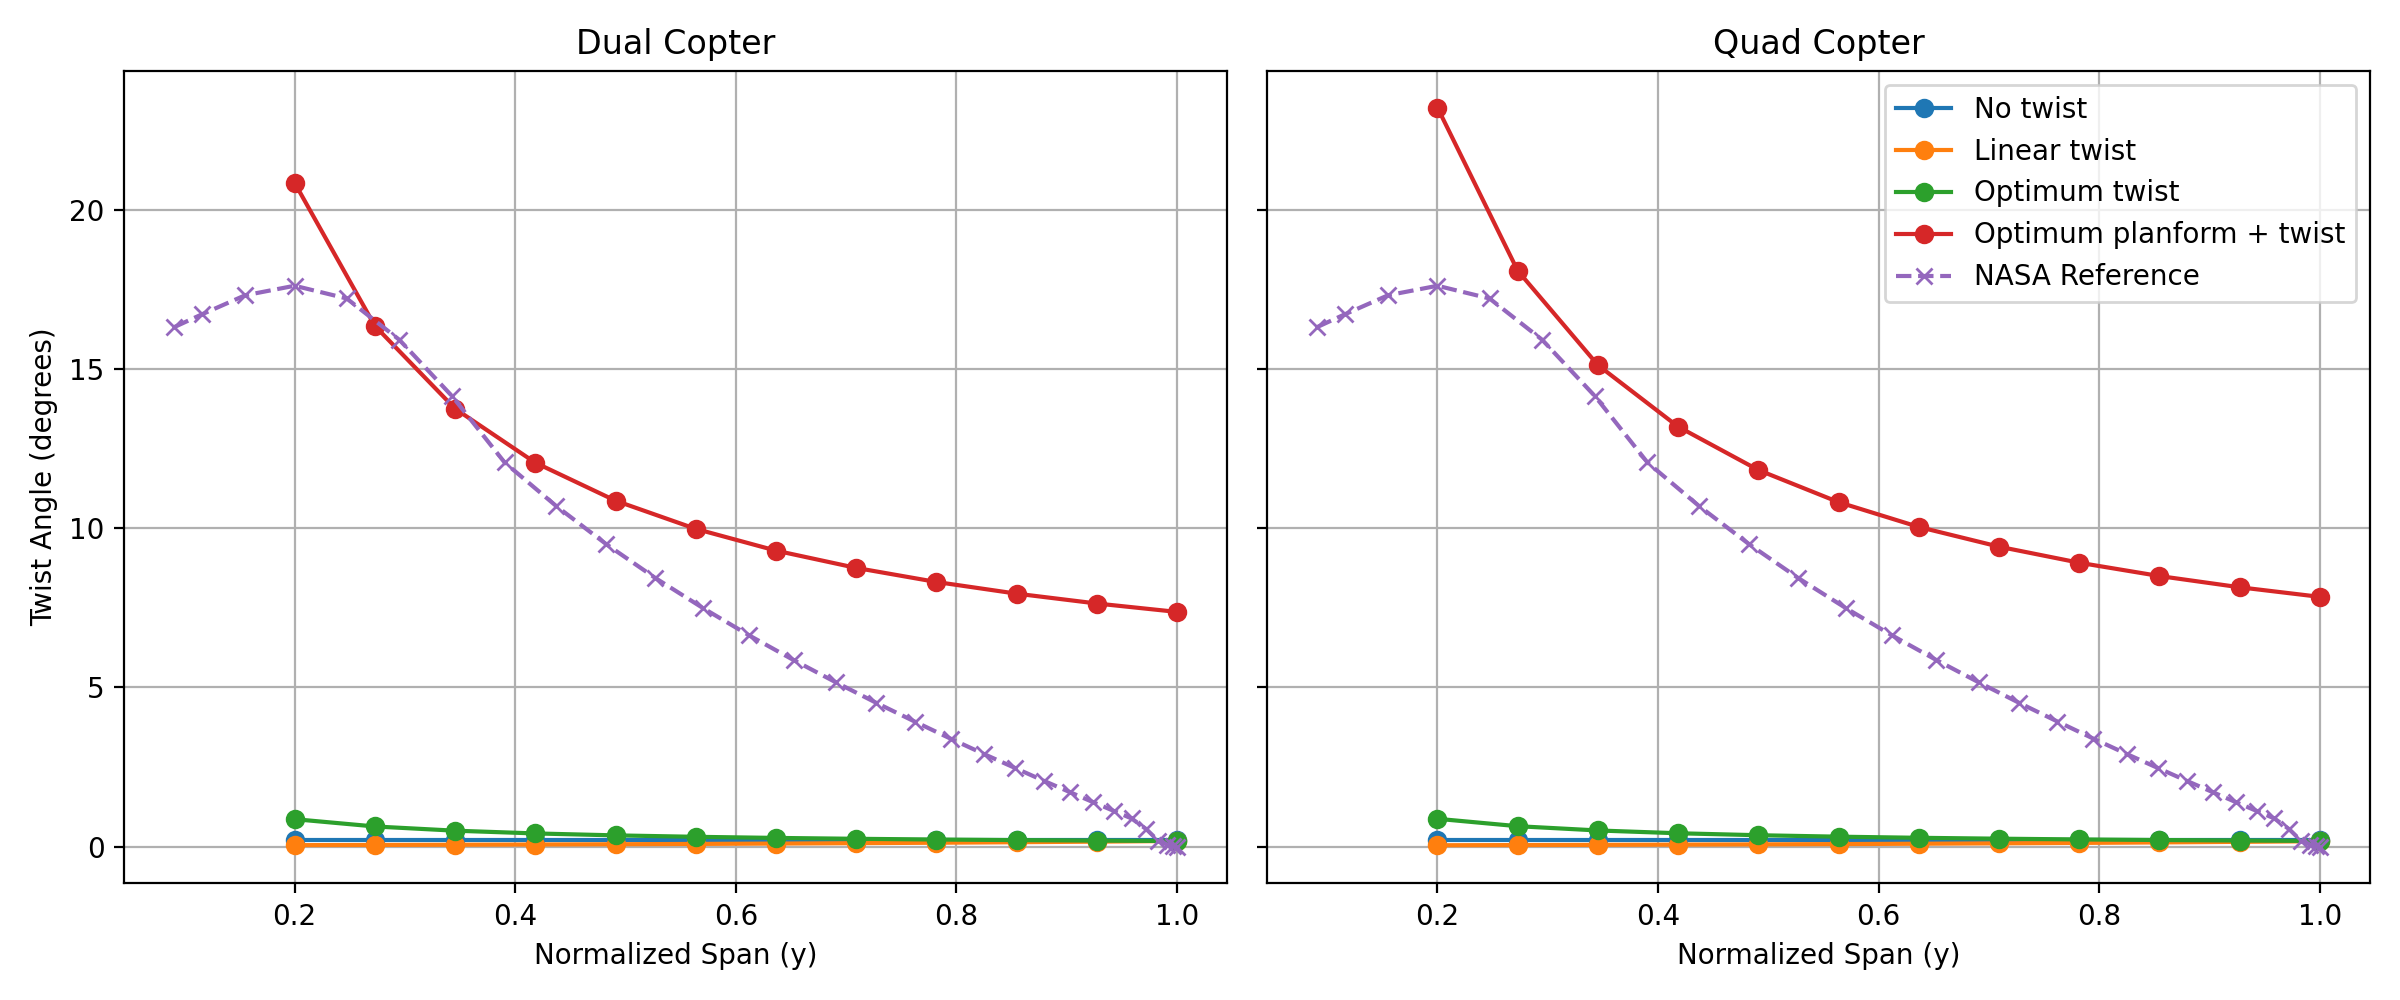
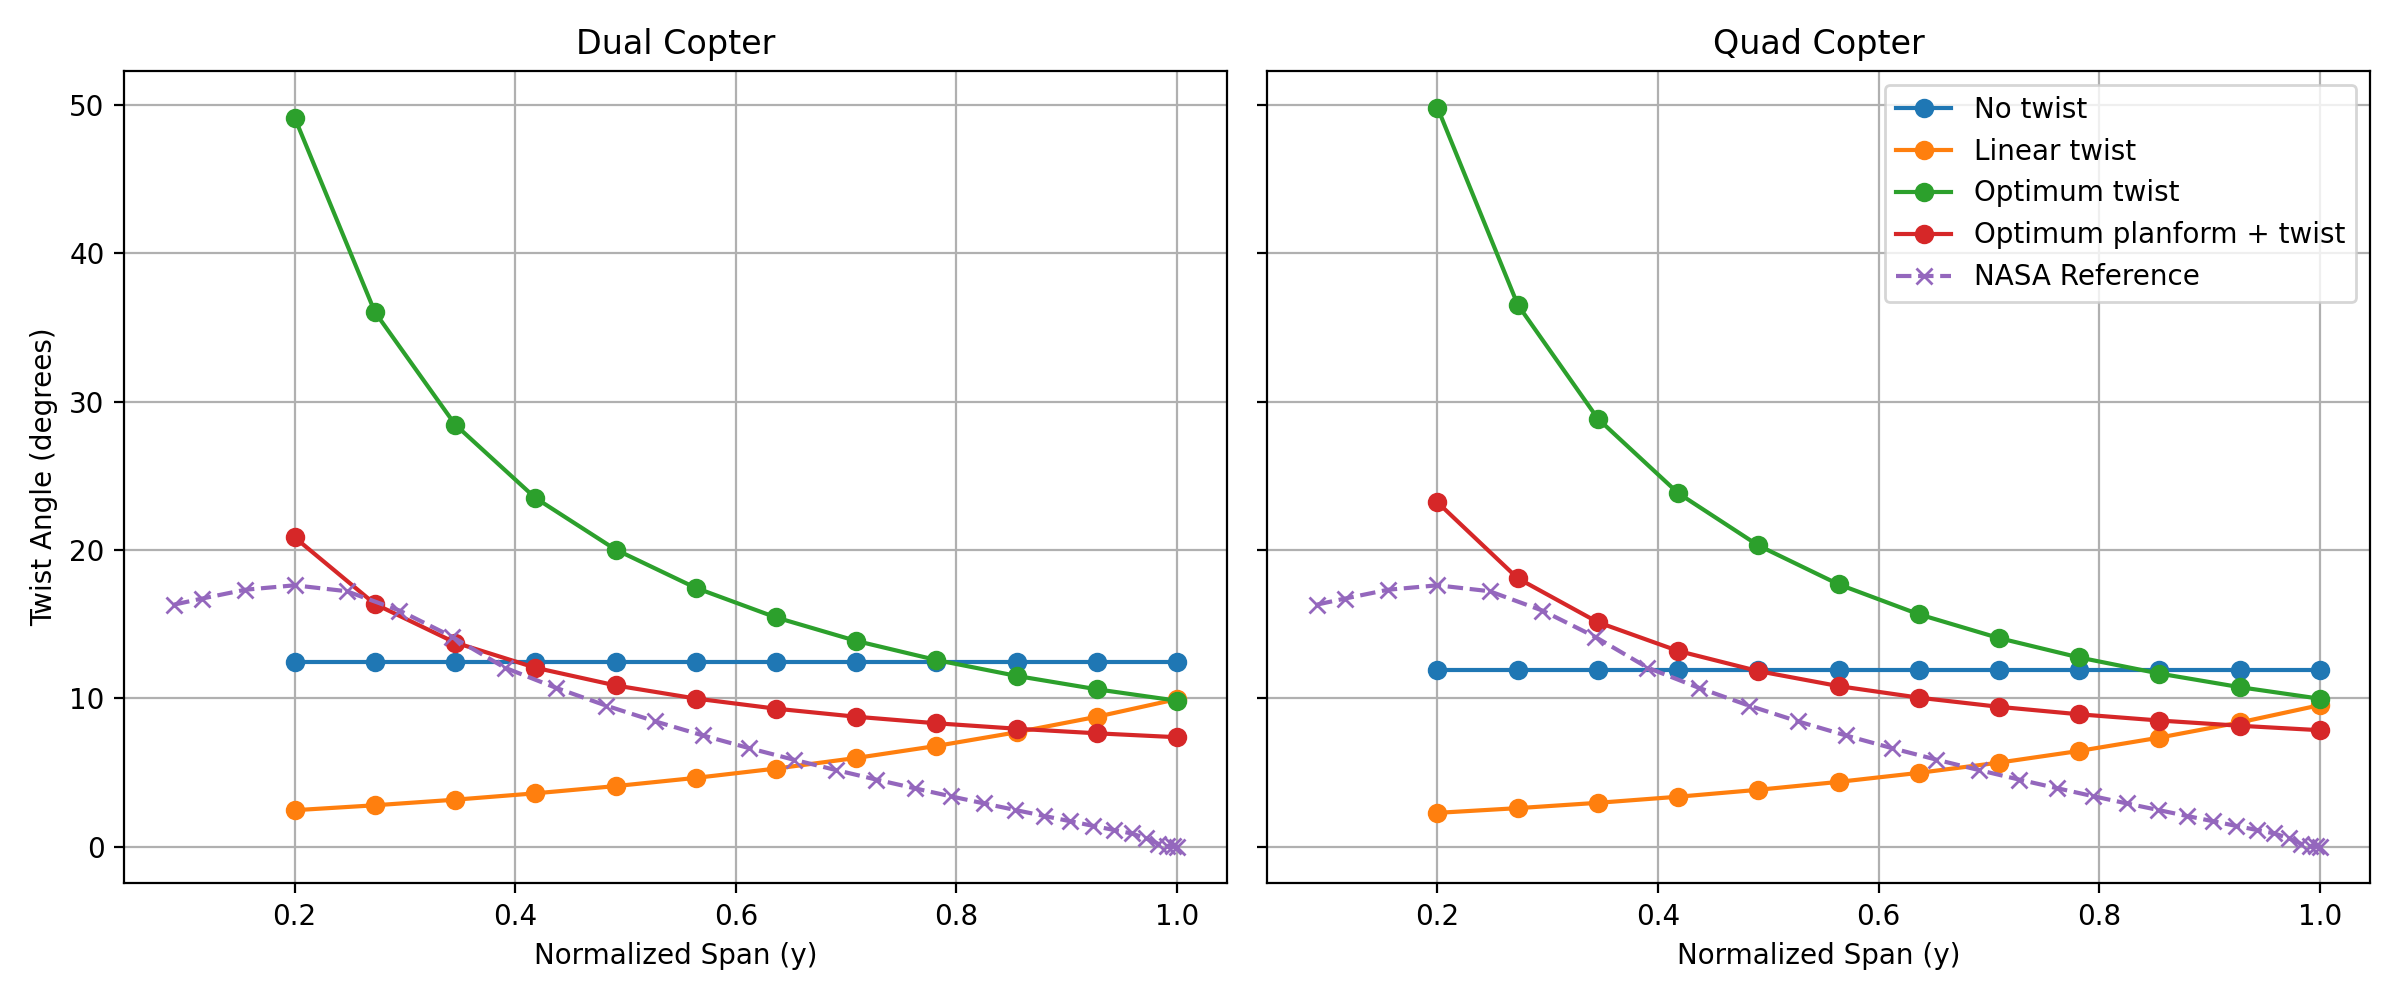
fixed twist calcs

diff --git a/blade_design.py b/blade_design.py
@@ -22,7 +22,7 @@ class BladeDesign:
         self.aoa_rad = np.radians(self.aoa_deg)
         # interp Cl vs aoa to find alpha0 (zero lift angle) and Cl_alpha (slope of Cl vs aoa)
         # the slope of the lift curve, denoted as Cl_alpha, is measured at the zero lift angle of attack. 
-        self.alpha_0_deg, self.alpha_0_rad, self.Cl_alpha = self.alpha_from_cl(0.0, self.Cl, self.aoa_deg, n_fit=len(self.Cl))
+        self.alpha_0_rad, self.Cl_alpha = self.alpha_from_cl(0.0, self.Cl, self.aoa_deg, n_fit=len(self.Cl))
         self.solidity = drone.solidity
         
         self.mass = drone.mass
@@ -35,24 +35,45 @@ class BladeDesign:
 
     def compute_no_twist(self):
         
-        self.no_twist = (3 * (self.C_T / (self.solidity * self.Cl_alpha) + 1/4 * sqrt(self.C_T) ) + self.alpha_0_deg)
+        # permanent pitch angle esentially
+        self.no_twist = np.degrees((3 * (self.C_T / (self.solidity * self.Cl_alpha) + 1/4 * sqrt(self.C_T) ) + self.alpha_0_rad))
+        
+        #make it into an array distributed along self.y
+        self.no_twist = np.full_like(self.y, self.no_twist)
         
         return self
     
     def compute_linear_twist(self):
         
-        theta_tip = (12/5 * (self.C_T / (self.solidity * self.Cl_alpha) + 1/4 * sqrt(self.C_T)  + 1/3*self.alpha_0_deg))
+        theta_tip = (12/5 * (self.C_T / (self.solidity * self.Cl_alpha) + 1/4 * sqrt(self.C_T)  + 1/3*self.alpha_0_rad))
         theta = theta_tip**(2 - self.y)
-        self.linear_twist = theta
+        self.linear_twist = np.degrees(theta)
         
         return self
     
     def compute_optimum_twist(self):
         
-        theta_tip = (2 * (self.C_T / (self.solidity * self.Cl_alpha) + 1/2 * sqrt(self.C_T)  + 2/3 * self.alpha_0_deg))
-        self.optimum_twist = theta_tip / self.y
+        theta_tip = (2 * (self.C_T / (self.solidity * self.Cl_alpha) + 1/2 * sqrt(self.C_T)  + 2/3 * self.alpha_0_rad))
+        self.optimum_twist = np.degrees(theta_tip / self.y)
         
         return self
+    
+    # def compute_optimum_twist(self):
+    #     print(f"DEBUG: C_T = {self.C_T}")
+    #     print(f"DEBUG: solidity = {self.solidity}")
+    #     print(f"DEBUG: Cl_alpha = {self.Cl_alpha}")
+    #     print(f"DEBUG: alpha_0_rad = {self.alpha_0_rad} ({np.degrees(self.alpha_0_rad)} deg)")
+        
+    #     theta_tip = (2 * (self.C_T / (self.solidity * self.Cl_alpha) + 1/2 * sqrt(self.C_T)  + 2/3 * self.alpha_0_rad))
+    #     print(f"DEBUG: theta_tip = {theta_tip}")
+    #     print(f"DEBUG: theta_tip / y[0] = {theta_tip / self.y[0]}")
+        
+    #     self.optimum_twist = np.degrees(theta_tip / self.y)
+    #     print(f"DEBUG: optimum_twist[0] = {self.optimum_twist[0]}, optimum_twist[-1] = {self.optimum_twist[-1]}")
+        
+    #     return self
+    
+
     
     def compute_optimum_plan_form_and_twist(self, c_tip):
         
@@ -103,8 +124,8 @@ class BladeDesign:
         # Reorder Cl and aoa according to the sorted indices
         Cls = np.asarray(Cl)[idx]
         # Reorder aoa according to the sorted indices
-        aos = np.asarray(aoa)[idx]
-        aoas_rad = np.radians(aos)
+        aoas_rad = np.radians(np.asarray(aoa)[idx])
+        
 
         # Ensure n_fit is at least 2 and does not exceed the number of available data points
         n_fit = max(2, min(n_fit, len(Cls)))
@@ -116,17 +137,14 @@ class BladeDesign:
 
         # alpha at target Cl (interp in-range, extrap out-of-range)
         if Cls[0] <= cl_target <= Cls[-1]:
-            target_aoa = np.interp(cl_target, Cls, aos)
+            target_aoa_rad = np.interp(cl_target, Cls, aoas_rad)
         else:
-            target_aoa = m * cl_target + b
+            target_aoa_rad = m * cl_target + b
 
         # Cl_alpha is dCl/d(alpha). Since m = d(alpha)/dCl, invert it.
         Cl_alpha = np.inf if np.isclose(m, 0.0) else 1.0 / m
-        
-        target_aoa_deg = target_aoa
-        target_aoa_rad = np.radians(target_aoa_deg)
 
-        return float(target_aoa_deg), float(target_aoa_rad), float(Cl_alpha)
+        return float(target_aoa_rad), float(Cl_alpha)
     
     def prandtl_tip_correction(self, phi_rad, method="linear"):
         #eq 89

diff --git a/main.py b/main.py
@@ -34,6 +34,7 @@ do = {
     "Q3": True,
     "Q4": True,
     "Q5": True,
+    "bem": False,
     "Q6": False
     }
 
@@ -497,18 +498,29 @@ if do["Q5"]:
     
     drones = [best_dual, best_quad]
     
+    print("initialize best dual")
     dual_blade_design = BladeDesign(drone=best_dual, planet=mars)
+    print("initialize best quad")
     quad_blade_design = BladeDesign(drone=best_quad, planet=mars)
     
     blade_designs = [dual_blade_design, quad_blade_design]
+    computed_blade_designs = []
+
+    print("Computing blade designs...")
     
     for blade_design in blade_designs:
         blade_design.compute_no_twist()
+        print(f"Computed no twist for {blade_design.__class__.__name__}")
         blade_design.compute_linear_twist()
+        print(f"Computed linear twist for {blade_design.__class__.__name__}")
         blade_design.compute_optimum_twist()
+        print(f"Computed optimum twist for {blade_design.__class__.__name__}")
         blade_design.compute_optimum_plan_form_and_twist(C_TIP)
-        blade_designs.append(blade_design)
-        
+        print(f"Computed optimum plan form and twist for {blade_design.__class__.__name__}")
+        computed_blade_designs.append(blade_design)
+        print(f"Appended {blade_design.__class__.__name__} to computed_blade_designs")
+
+    blade_designs = computed_blade_designs        
         
     plot_q5_twist_subplots(blade_designs=blade_designs, blade_geometry_nasa=blade_geometry_nasa,
         filename="plots/q5_twist_distributions.png"
@@ -519,15 +531,18 @@ if do["Q5"]:
     
     #TODO IMPLEMENT BEM
     
-    dual_blade_design.bem()
-    dual_blade_design.total_thrust = np.sum(dual_blade_design.dT_be)
-    dual_blade_design.compute_total_power()  
+    # dual_blade_design.bem()
+    # dual_blade_design.total_thrust = np.sum(dual_blade_design.dT_be)
+    # dual_blade_design.compute_total_power()  
     
     #TODO Plot the distribution of 𝑑𝐶𝑇 (𝑑𝐶𝑇 = 𝑑𝑇/(𝜌𝐴𝑉𝑡𝑖𝑝2 )) and 𝑑𝑃 vs the non-dimensional radius. 
     
     #TODO For your final design, calculate the total power required by the rotor and thrust delivered, and compare it with your result from Task 2. Your final design must be capable of delivering the desired thrust. 
     print("\nQ5 DONE\n")
 
+if do["bem"]:
+    pass
+    
 if do["Q6"]:
     print("\nRunning Q6 and performing final analysis\n")
     

diff --git a/plot_funcs.py b/plot_funcs.py
@@ -244,9 +244,8 @@ def plot_q5_twist_subplots(blade_designs, blade_geometry_nasa, filename="plots/q
         (axes[1], blade_designs[1], "Quad Copter"),
     ]:
         y = design.y
-        no_twist = [design.no_twist] * len(y)
 
-        ax.plot(y, no_twist, marker="o", label="No twist")
+        ax.plot(y, design.no_twist, marker="o", label="No twist")
         ax.plot(y, design.linear_twist, marker="o", label="Linear twist")
         ax.plot(y, design.optimum_twist, marker="o", label="Optimum twist")
         ax.plot(y, design.theta_optimum_plan_form, marker="o", label="Optimum planform + twist")
